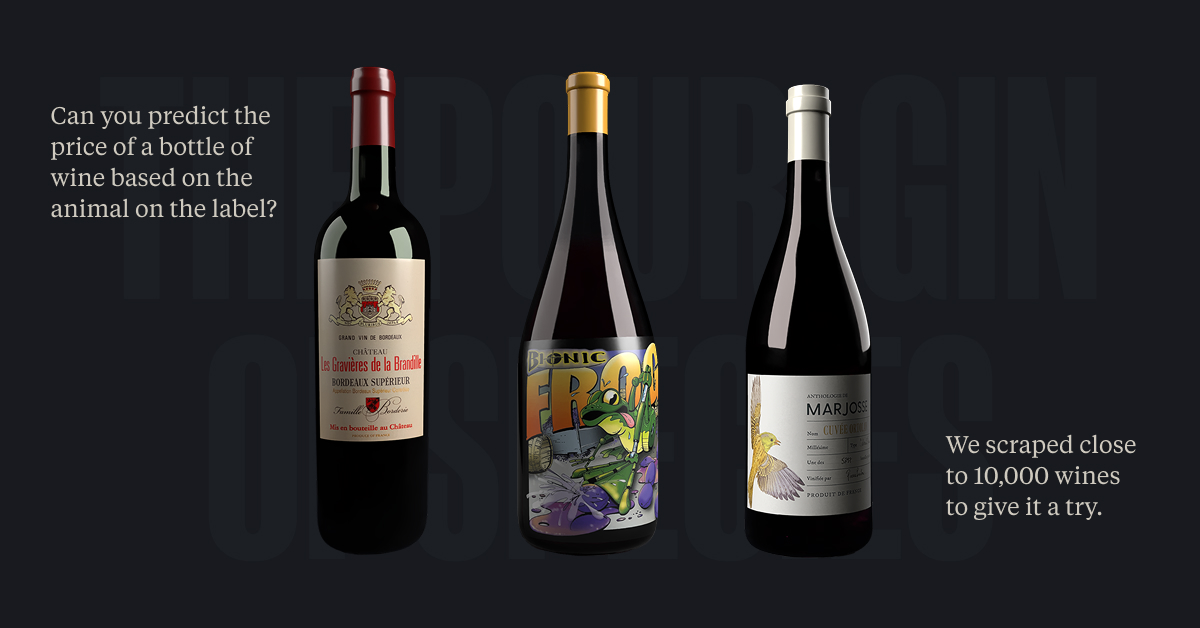
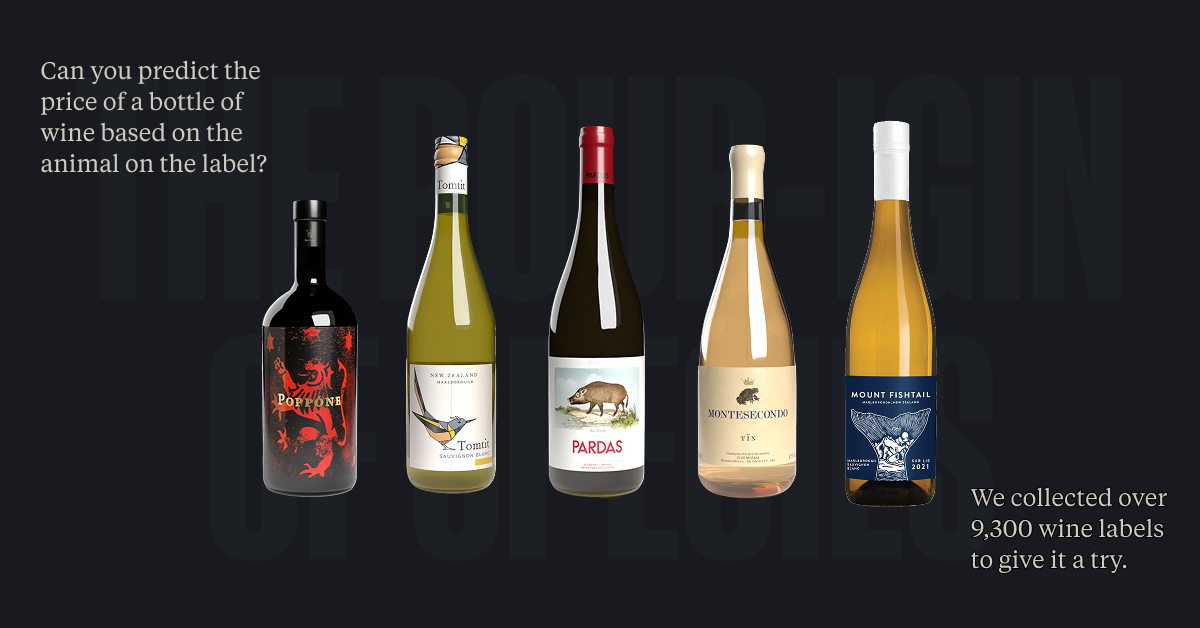
scroll intro - need to fix click

Changed region(s): [[0.0308, 0.0908, 0.9867, 0.9076]]

diff --git a/src/components/Intro.svelte b/src/components/Intro.svelte
@@ -28,24 +28,23 @@
     let scrollIndex;
     let scrollyContainer; // Reference to the Scrolly container
     let scrollY;
-
-    $: selectedText = $animalSelected == "amphibian/reptile" ? copy.opening[0]["amphibian"] : copy.opening[0][$animalSelected];
-    $: selectedPriceText = $animalSelected == "amphibian/reptile" ? copy.opening[0][("amphibianPrice")] : copy.opening[0][($animalSelected + "Price")];
-    $: selectedRatingText = $animalSelected == "amphibian/reptile" ? copy.opening[0][("amphibianRating")] : copy.opening[0][($animalSelected + "Rating")];
+    let autoSelected = false;
+    let selectedText;
+    let selectedPriceText;
+    let selectedRatingText;
+    console.log("Top-level:", $animalSelected);
 
     // INTERACTION FUNCTIONS
-    // Selects random wine
-    function handleRandomClick() {
-        document.body.style.overflowY = "auto";
-        const randomAnimal = openingWines[Math.floor(Math.random() * openingWines.length)];
-        handleBottleClick(randomAnimal)
-    }
-
     // Handles the wine click and sets selected wine
     function handleBottleClick(data) {
-        document.body.style.overflowY = "auto";
+        console.log("running", data);
         animalSelected.set(data.animal);
         bottleSelected.set(true);
+
+        const key = data.animal !== "amphibian/reptile" ? data.animal : "amphibian";
+        selectedText = copy.opening[0][key];
+        selectedPriceText = copy.opening[0][key + "Price"];
+        selectedRatingText = copy.opening[0][key + "Rating"];
 
         const products = document.querySelectorAll(".product");
 
@@ -95,12 +94,15 @@
     // REATIVE FUNCTIONS
     // Scroll to the second step once bottle is selected
     $: scrollToStep($animalSelected);
-    // Unlock body scroll
-    $: if (scrollY >= 100 || scrollIndex >= 1 || bottleSelected == true) {
-        document.body.style.overflowY = "auto";
+    $: if (scrollY >= 50 && !autoSelected && !$bottleSelected) {
+        const randomWine = openingWines[Math.floor(Math.random() * openingWines.length)];
+        handleBottleClick(randomWine);
+        autoSelected = true;
     }
 
-    // $: console.log(scrollIndex)
+    $: console.log("Reactive:", $animalSelected);
+
+    $: console.log(scrollIndex, scrollY)
 </script>
 
 <svelte:window bind:scrollY={scrollY}/>
@@ -118,12 +120,12 @@
             <div class="step">
                 <div class="step-inner">
                     <p> 
-                        {#if i == 1}
+                        {#if i == 1 && selectedText}
                             {@html selectedText}
-                        {:else if i == 6}
+                        {:else if i == 6 && selectedPriceText}
                             {@html step.value}
                             {@html selectedPriceText}
-                        {:else if i == 7}
+                        {:else if i == 7 && selectedRatingText}
                             {@html step.value}
                             {@html selectedRatingText}
                         {:else}
@@ -131,8 +133,7 @@
                                 {#if i == 0}
                                     <p class="instructions">
                                         <span class="tap-icon">{@html tapSVG}</span>
-                                        Tap on a bottle or
-                                        <button class="random-click" on:click={handleRandomClick}>get a random one</button>
+                                        Tap on a bottle or start scrolling to get a random wine
                                     </p>
                                 {/if}
                         {/if}
@@ -288,10 +289,6 @@
         color: var(--wine-gold);
         font-weight: 700;
         padding: 0;
-    }
-
-    .random-click:hover {
-        color: var(--wine-dark-gold);
     }
 
     :global(.prompt) {

diff --git a/src/components/SpinningBottle.svelte b/src/components/SpinningBottle.svelte
@@ -61,15 +61,15 @@
 
         const products = document.querySelectorAll("#intro .product");
         products.forEach((product) => {
-        const prodAnimal = product.getAttribute("data-animal");
-        const wineDiv = product.querySelector(".wine");
-        if (prodAnimal !== $animalSelected && bottleIndex !== 4) {
-            product.classList.add("faded");
-            product.style.left = data.startingPos;
-        } else {
-            product.classList.remove("faded");
-            product.style.left = "50%";
-        }
+            const prodAnimal = product.getAttribute("data-animal");
+            const wineDiv = product.querySelector(".wine");
+            if (prodAnimal !== $animalSelected && bottleIndex !== 4) {
+                product.classList.add("faded");
+                product.style.left = data.startingPos;
+            } else {
+                product.classList.remove("faded");
+                product.style.left = "50%";
+            }
         });
 
         shouldSpin = Array.from(products).map(
@@ -77,14 +77,14 @@
         );
 
         products.forEach((product) => {
-        const wineDiv = product.querySelector(".wine");
-        if (wineDiv) {
-            if (product.style.left === "50%") {
-            wineDiv.classList.remove("spin");
-            } else {
-            wineDiv.classList.add("spin");
+            const wineDiv = product.querySelector(".wine");
+            if (wineDiv) {
+                if (product.style.left === "50%") {
+                wineDiv.classList.remove("spin");
+                } else {
+                wineDiv.classList.add("spin");
+                }
             }
-        }
         });
 
         // Emit event to parent component

diff --git a/src/stores/misc.js b/src/stores/misc.js
@@ -3,6 +3,8 @@ import allWineData from "$data/wineData.csv";
 
 // EXPLORE DATA
 const filteredData = allWineData.filter(d => d.price <= 150 && d.topgroup !== "human" && d.topgroup !== "none");
+const openingWines = ["cat", "bird", "pig", "amphibian/reptile"];
+const randomAnimal = openingWines[Math.floor(Math.random() * openingWines.length)];
 
 export const bigScatterData = writable(filteredData);
 export const withFiltersData = writable(filteredData);
@@ -16,7 +18,7 @@ export const selectedYearRangeSTORE = writable([1850, 2023]);
 
 // INTRO SELECTION
 export const bottleSelected = writable(false);
-export const animalSelected = writable(undefined);
+export const animalSelected = writable(randomAnimal);
 
 // STEAL RANGES
 export const stealPriceNum = writable(29.99);

diff --git a/src/components/Meta.svelte b/src/components/Meta.svelte
@@ -1,6 +1,6 @@
 <script>
 	export let title = "The Pour-igin of Species";
-	export let description = "We used ChatGPT Vision to identify animals on over 9,000 wine labels to see if we could predict the price and quality of a bottle based on the animal on the label.";
+	export let description = "We used ChatGPT Vision to identify animals on over 9,300 wine labels to see if we could predict the price and quality of a bottle based on the animal on the label.";
 	export let url = "https://pudding.cool/2025/04/wine-animals";
 	export let keywords = "wine, animal, label, vivino, bottle, price, quality, design, data, analysis, predict, drink, packaging, alcohol";
 	export let preloadFont = [];

diff --git a/src/styles/reset.css b/src/styles/reset.css
@@ -9,7 +9,7 @@ body {
 	word-wrap: break-word;
 	-webkit-tap-highlight-color: transparent;
 	overflow-x: hidden;
-	overflow-y: hidden;
+	/* overflow-y: hidden; */
 }
 
 h1,
